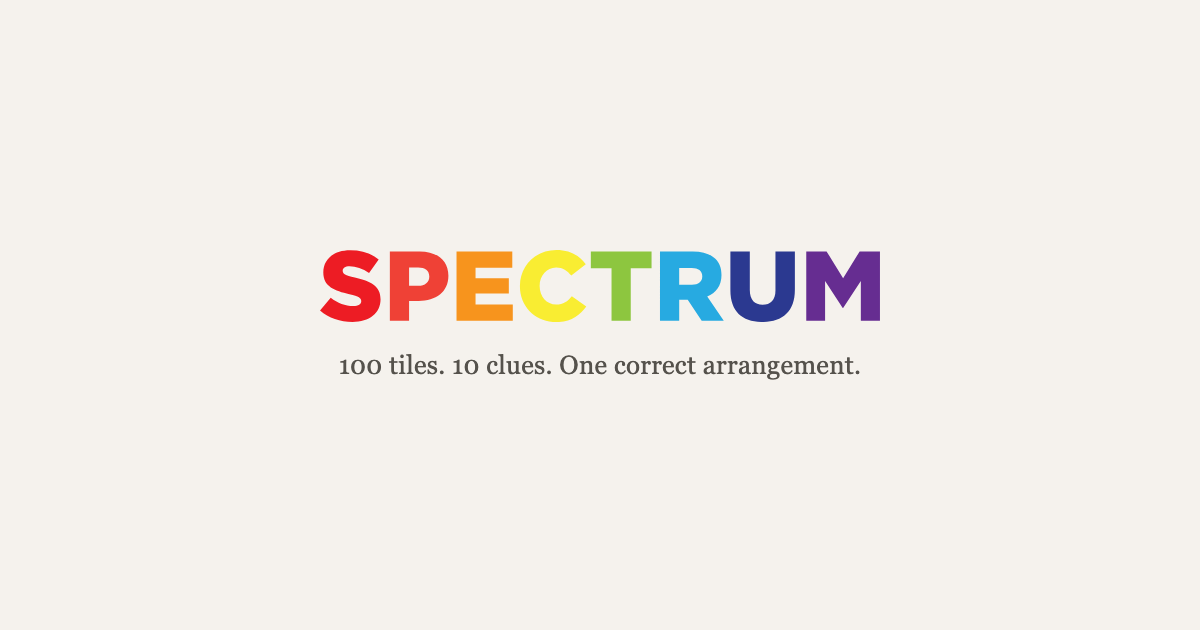
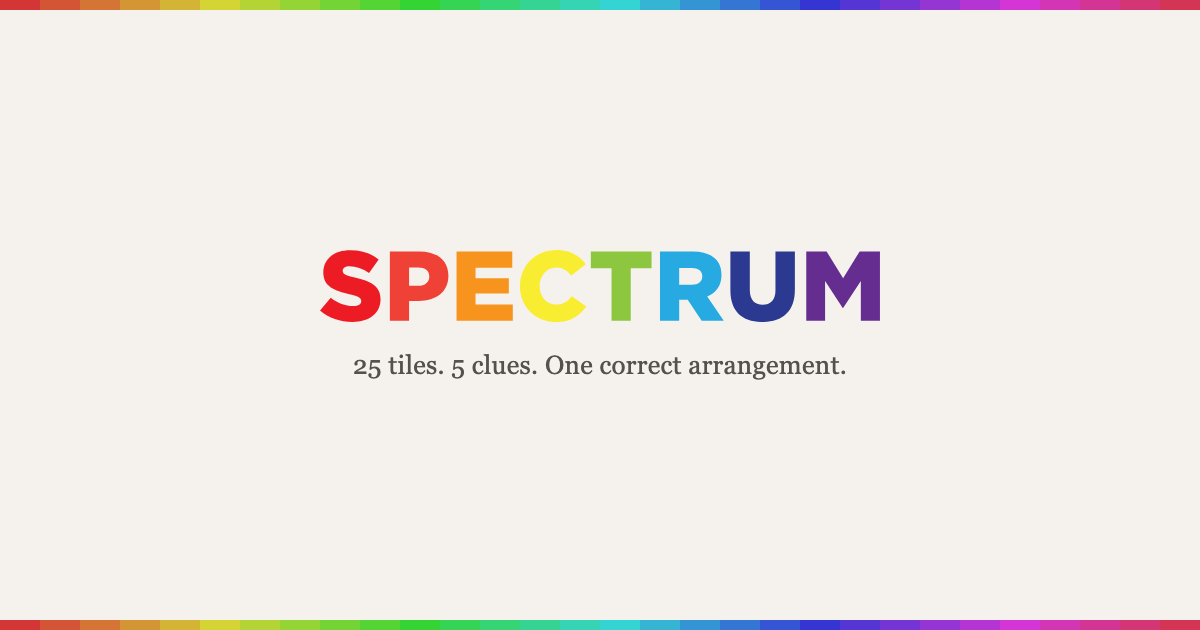
Spectrum: thicker anchor border, updated card/OG copy for 5x5
- Anchor inset border: 2px -> 4px
- Lobby card + OG image: "25 tiles. 5 clues. One correct arrangement."

Changed region(s): [[0.0, 0.9651, 1.0, 1.0], [0.0, 0.0, 1.0, 0.0302], [0.2775, 0.573, 0.7092, 0.6032]]

diff --git a/assets/css/spectrum.css b/assets/css/spectrum.css
@@ -81,7 +81,7 @@
 
 /* Anchor: subtle inset border — indicates "locked in place" */
 .sp-tile--anchor {
-  box-shadow: inset 0 0 0 2px rgba(0, 0, 0, 0.38);
+  box-shadow: inset 0 0 0 4px rgba(0, 0, 0, 0.38);
   cursor: default;
 }
 

diff --git a/index.html b/index.html
@@ -354,7 +354,7 @@
         <div class="lobby-card-logo">
           <img src="assets/logos/spectrum_logo.svg" alt="Spectrum">
         </div>
-        <p class="lobby-card-desc">100 tiles. 10 clues. One correct arrangement.</p>
+        <p class="lobby-card-desc">25 tiles. 5 clues. One correct arrangement.</p>
       </a>
 
       <a class="lobby-card lc-shaded" href="shaded.html">